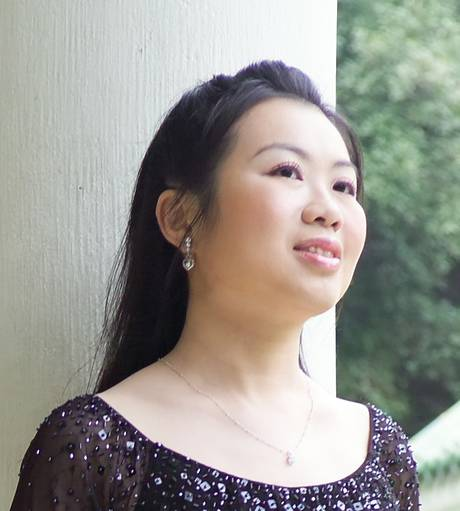
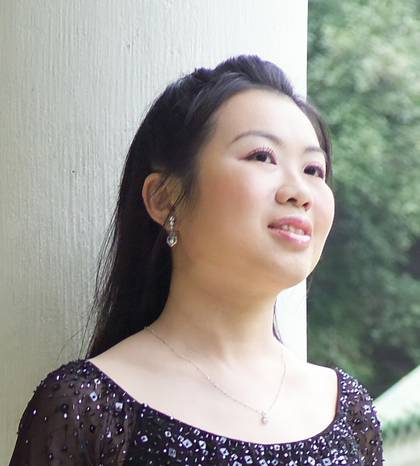
adjusted homepage event image size

diff --git a/site_media/styles.css b/site_media/styles.css
@@ -62,7 +62,8 @@ dd{ margin-left: 19em; }
 .next_bg { background-color: #be9521; /*margin-bottom: 4em;*/ }
 .next_bg_home { margin-bottom: 4em; }
 .next_concert { background-color: #fbbf13; position: relative; top: 15px; -moz-box-shadow: 5px 8px 8px #111; -webkit-box-shadow: 5px 8px 8px #111; box-shadow: 5px 8px 8px #111; overflow: auto; padding: 2em; }
-.image img { width: 45em; border: 10px solid white; -moz-border-radius: 0px; -moz-box-shadow: 4px 4px 8px rgba(0,0,0,.5); float: left;}
+.image { text-align: center; }
+.image img { border: 10px solid white; -moz-border-radius: 0px; -moz-box-shadow: 4px 4px 8px rgba(0,0,0,.5); float: left; }
 .next_concert .description { float: right; width: 47em; z-index:2; }
 
 

diff --git a/events/soloist_specs.py b/events/soloist_specs.py
@@ -10,7 +10,7 @@ class ResizeThumb(processors.Resize):
 	
 class ResizeDisplay(processors.Resize):
     width = 460
-    height = 300
+    height = 300 
 	
 class EnchanceThumb(processors.Adjustment):
 	contrast = 1.2

diff --git a/events/event_specs.py b/events/event_specs.py
@@ -9,7 +9,8 @@ class ResizeThumb(processors.Resize):
 	crop = True
 	
 class ResizeDisplay(processors.Resize):
-	width = 460
+    width = 420
+    
 	
 class EnchanceThumb(processors.Adjustment):
 	contrast = 1.2
